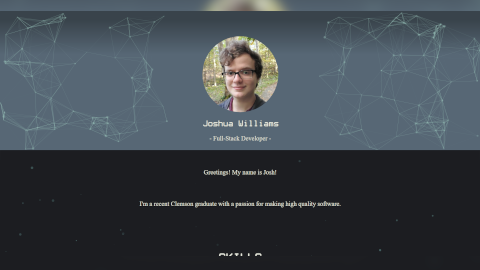
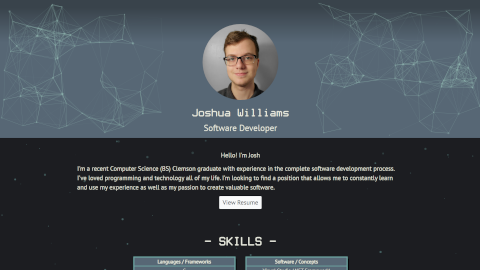
updated some images

diff --git a/src/App.js b/src/App.js
@@ -54,7 +54,7 @@ function App() {
       	<Button variant="light" href="https://github.com/JoshuaWilliams9107"><img src={process.env.PUBLIC_URL + "/images/GitHub_Logo.png"} className="Github"/></Button>
       </div>
       <div className="ContactButton">
-      	<Button className="Email" variant="light" href="mailto:JoshuaWilliams9107@gmail.com">Email</Button>
+      	<Button className="Email" variant="light" href="mailto:JoshuaWilliams9107@gmail.com">Email Me</Button>
       </div>
     </MediaQuery>
     <MediaQuery minWidth={800}>
@@ -65,7 +65,7 @@ function App() {
       	<Button variant="light" href="https://github.com/JoshuaWilliams9107"><img src={process.env.PUBLIC_URL + "/images/GitHub_Logo.png"} className="Github"/></Button>
       </span>
       <span className="ContactButton">
-      	<Button className="Email" variant="light" href="mailto:JoshuaWilliams9107@gmail.com">Email</Button>
+      	<Button className="Email" variant="light" href="mailto:JoshuaWilliams9107@gmail.com">Email Me</Button>
       </span>
     </MediaQuery>
       
